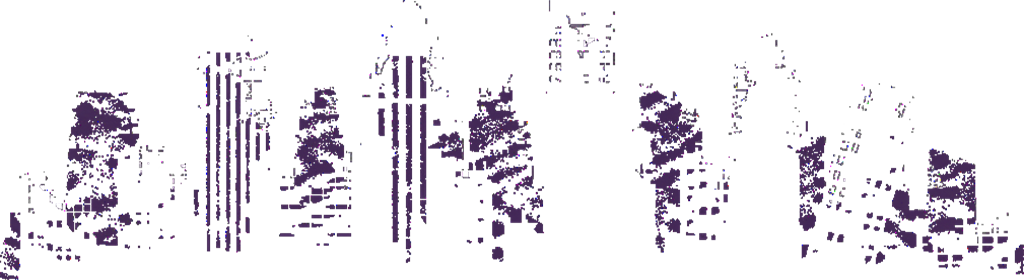
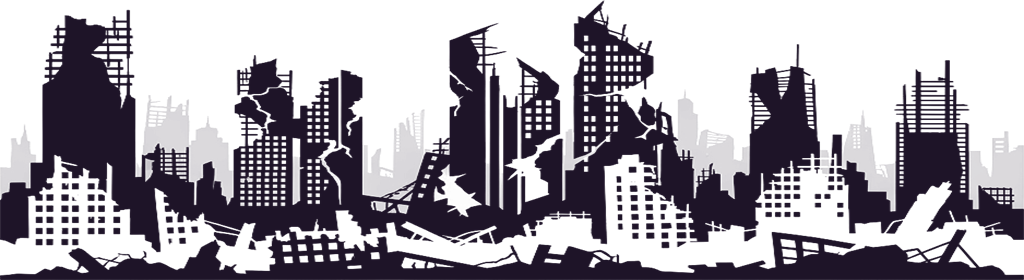
Restore original high-fidelity cityscape backgrounds and resolve sky corruption noise

diff --git a/src/background_manager.ts b/src/background_manager.ts
@@ -46,7 +46,7 @@ export class BackgroundManager {
       console.error("BackgroundManager: sky.png failed to load", e);
       this.skyImg = null; 
     };
-    this.skyImg.src = 'assets/sky.png?v=1.2.3';
+    this.skyImg.src = 'assets/sky.png?v=1.2.7';
 
     // Load Distant Skyline
     this.distantImg = new Image();
@@ -58,7 +58,7 @@ export class BackgroundManager {
       console.error("BackgroundManager: distant_ruins.png failed to load", e);
       this.distantImg = null; 
     };
-    this.distantImg.src = 'assets/distant_ruins.png?v=1.2.3';
+    this.distantImg.src = 'assets/distant_ruins.png?v=1.2.7';
 
     // Load Near Skyline
     this.nearImg = new Image();
@@ -70,7 +70,7 @@ export class BackgroundManager {
       console.error("BackgroundManager: near_ruins.png failed to load", e);
       this.nearImg = null; 
     };
-    this.nearImg.src = 'assets/near_ruins.png?v=1.2.3';
+    this.nearImg.src = 'assets/near_ruins.png?v=1.2.7';
   }
 
   private initBuildings() {

diff --git a/index.html b/index.html
@@ -225,6 +225,6 @@
             </div>
         </div>
     </div>
-    <script type="module" src="dist/engine.js?v=1.2.5"></script>
+    <script type="module" src="dist/engine.js?v=1.2.7"></script>
 </body>
 </html>